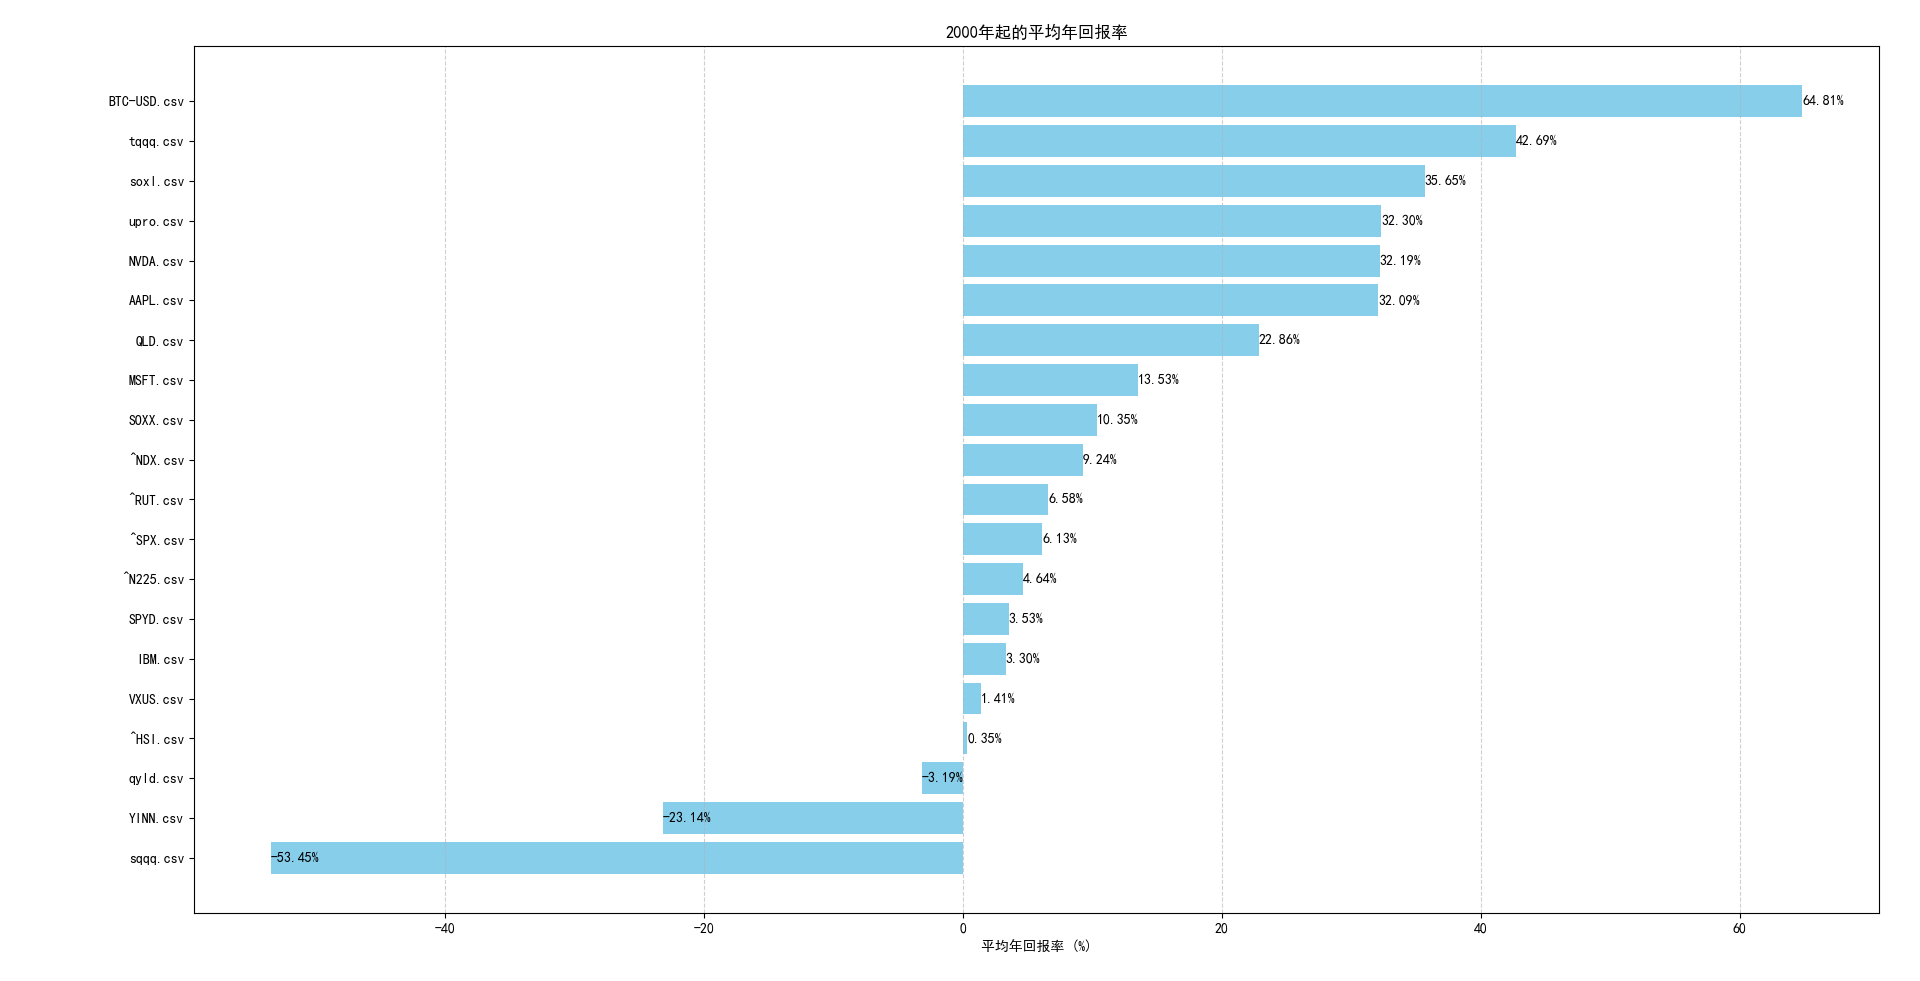
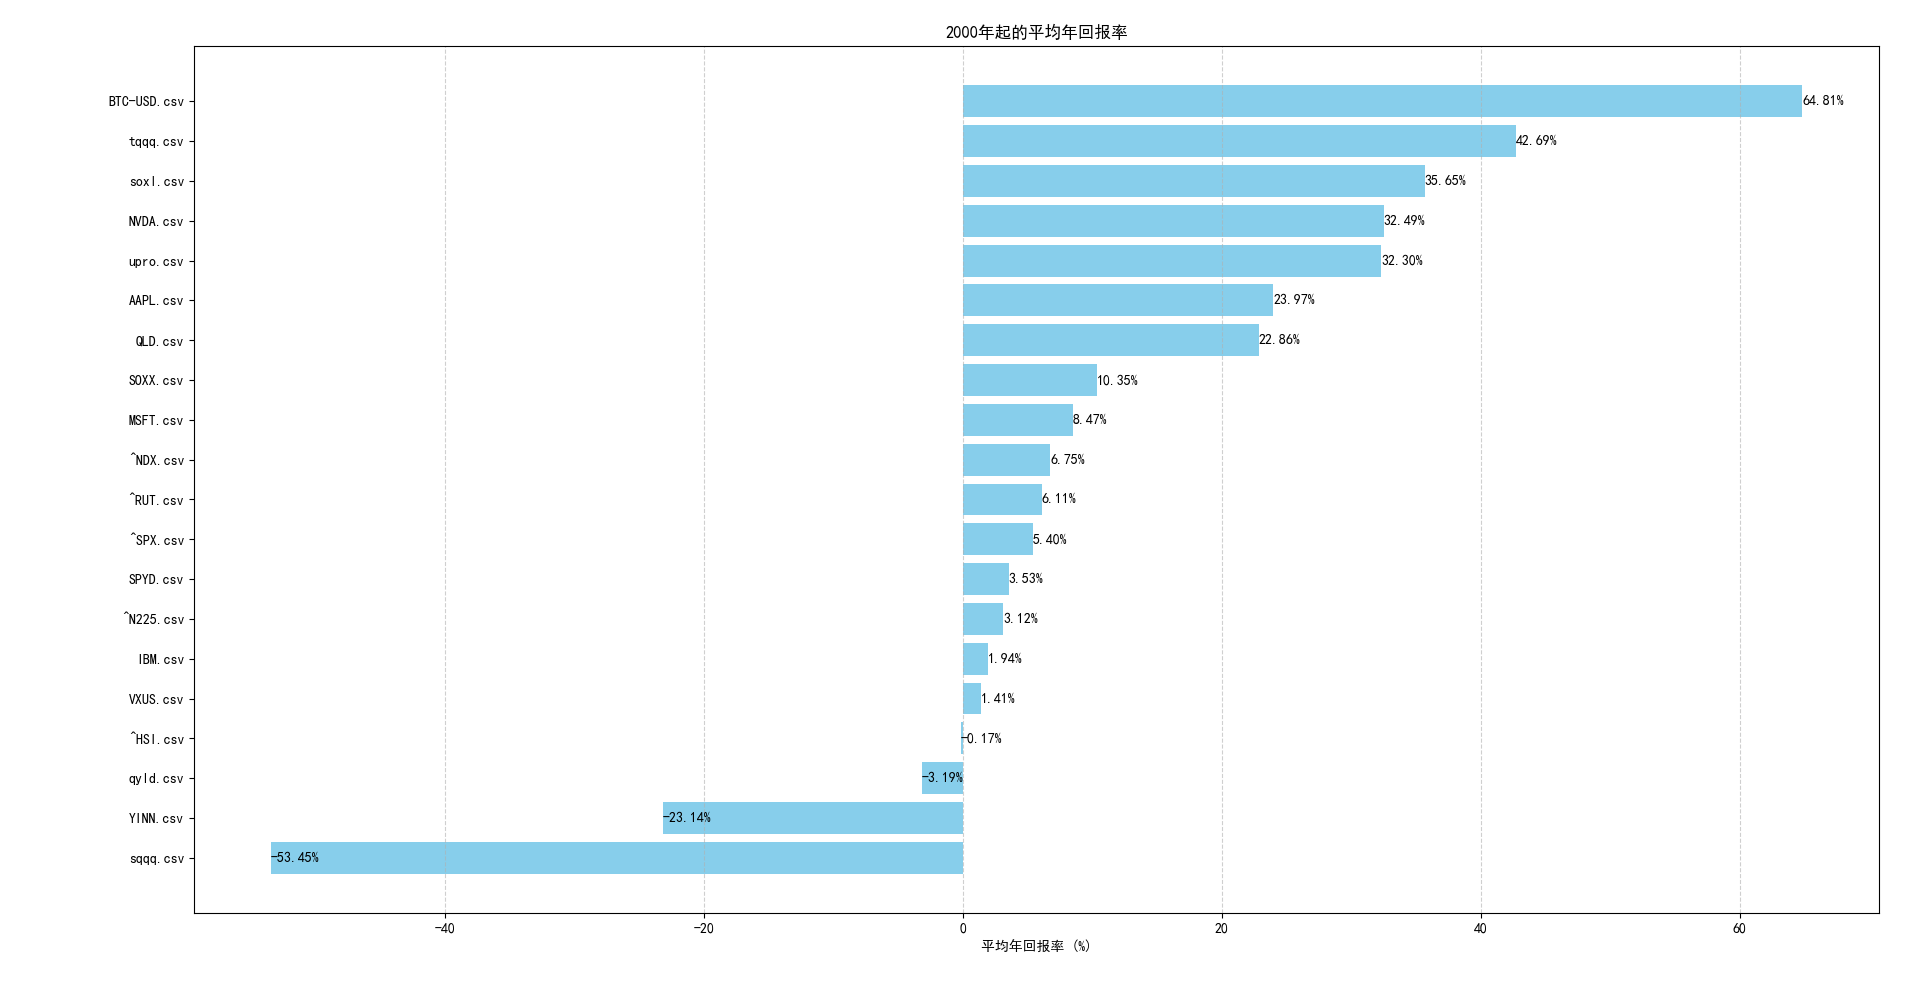
算法修正 -》 年份

diff --git a/simple_py/CAGR.py b/simple_py/CAGR.py
@@ -1,7 +1,7 @@
 import pandas as pd
 import os
 
-begin_year = 2000
+begin_year = 2014
 
 def calculate_cagr(file_path):
     # 读取CSV文件
@@ -9,7 +9,7 @@ def calculate_cagr(file_path):
     # 将 'Date' 列转换为日期时间类型
     data['Date'] = pd.to_datetime(data['Date'])
 
-    data = data[data['Date'].dt.year > begin_year]
+    data = data[data['Date'].dt.year >= begin_year]
     # data = data[data['Date'].dt.year > 2009]
 
     # 过滤掉除了日期列以外所有值都为NaN或Null的行
